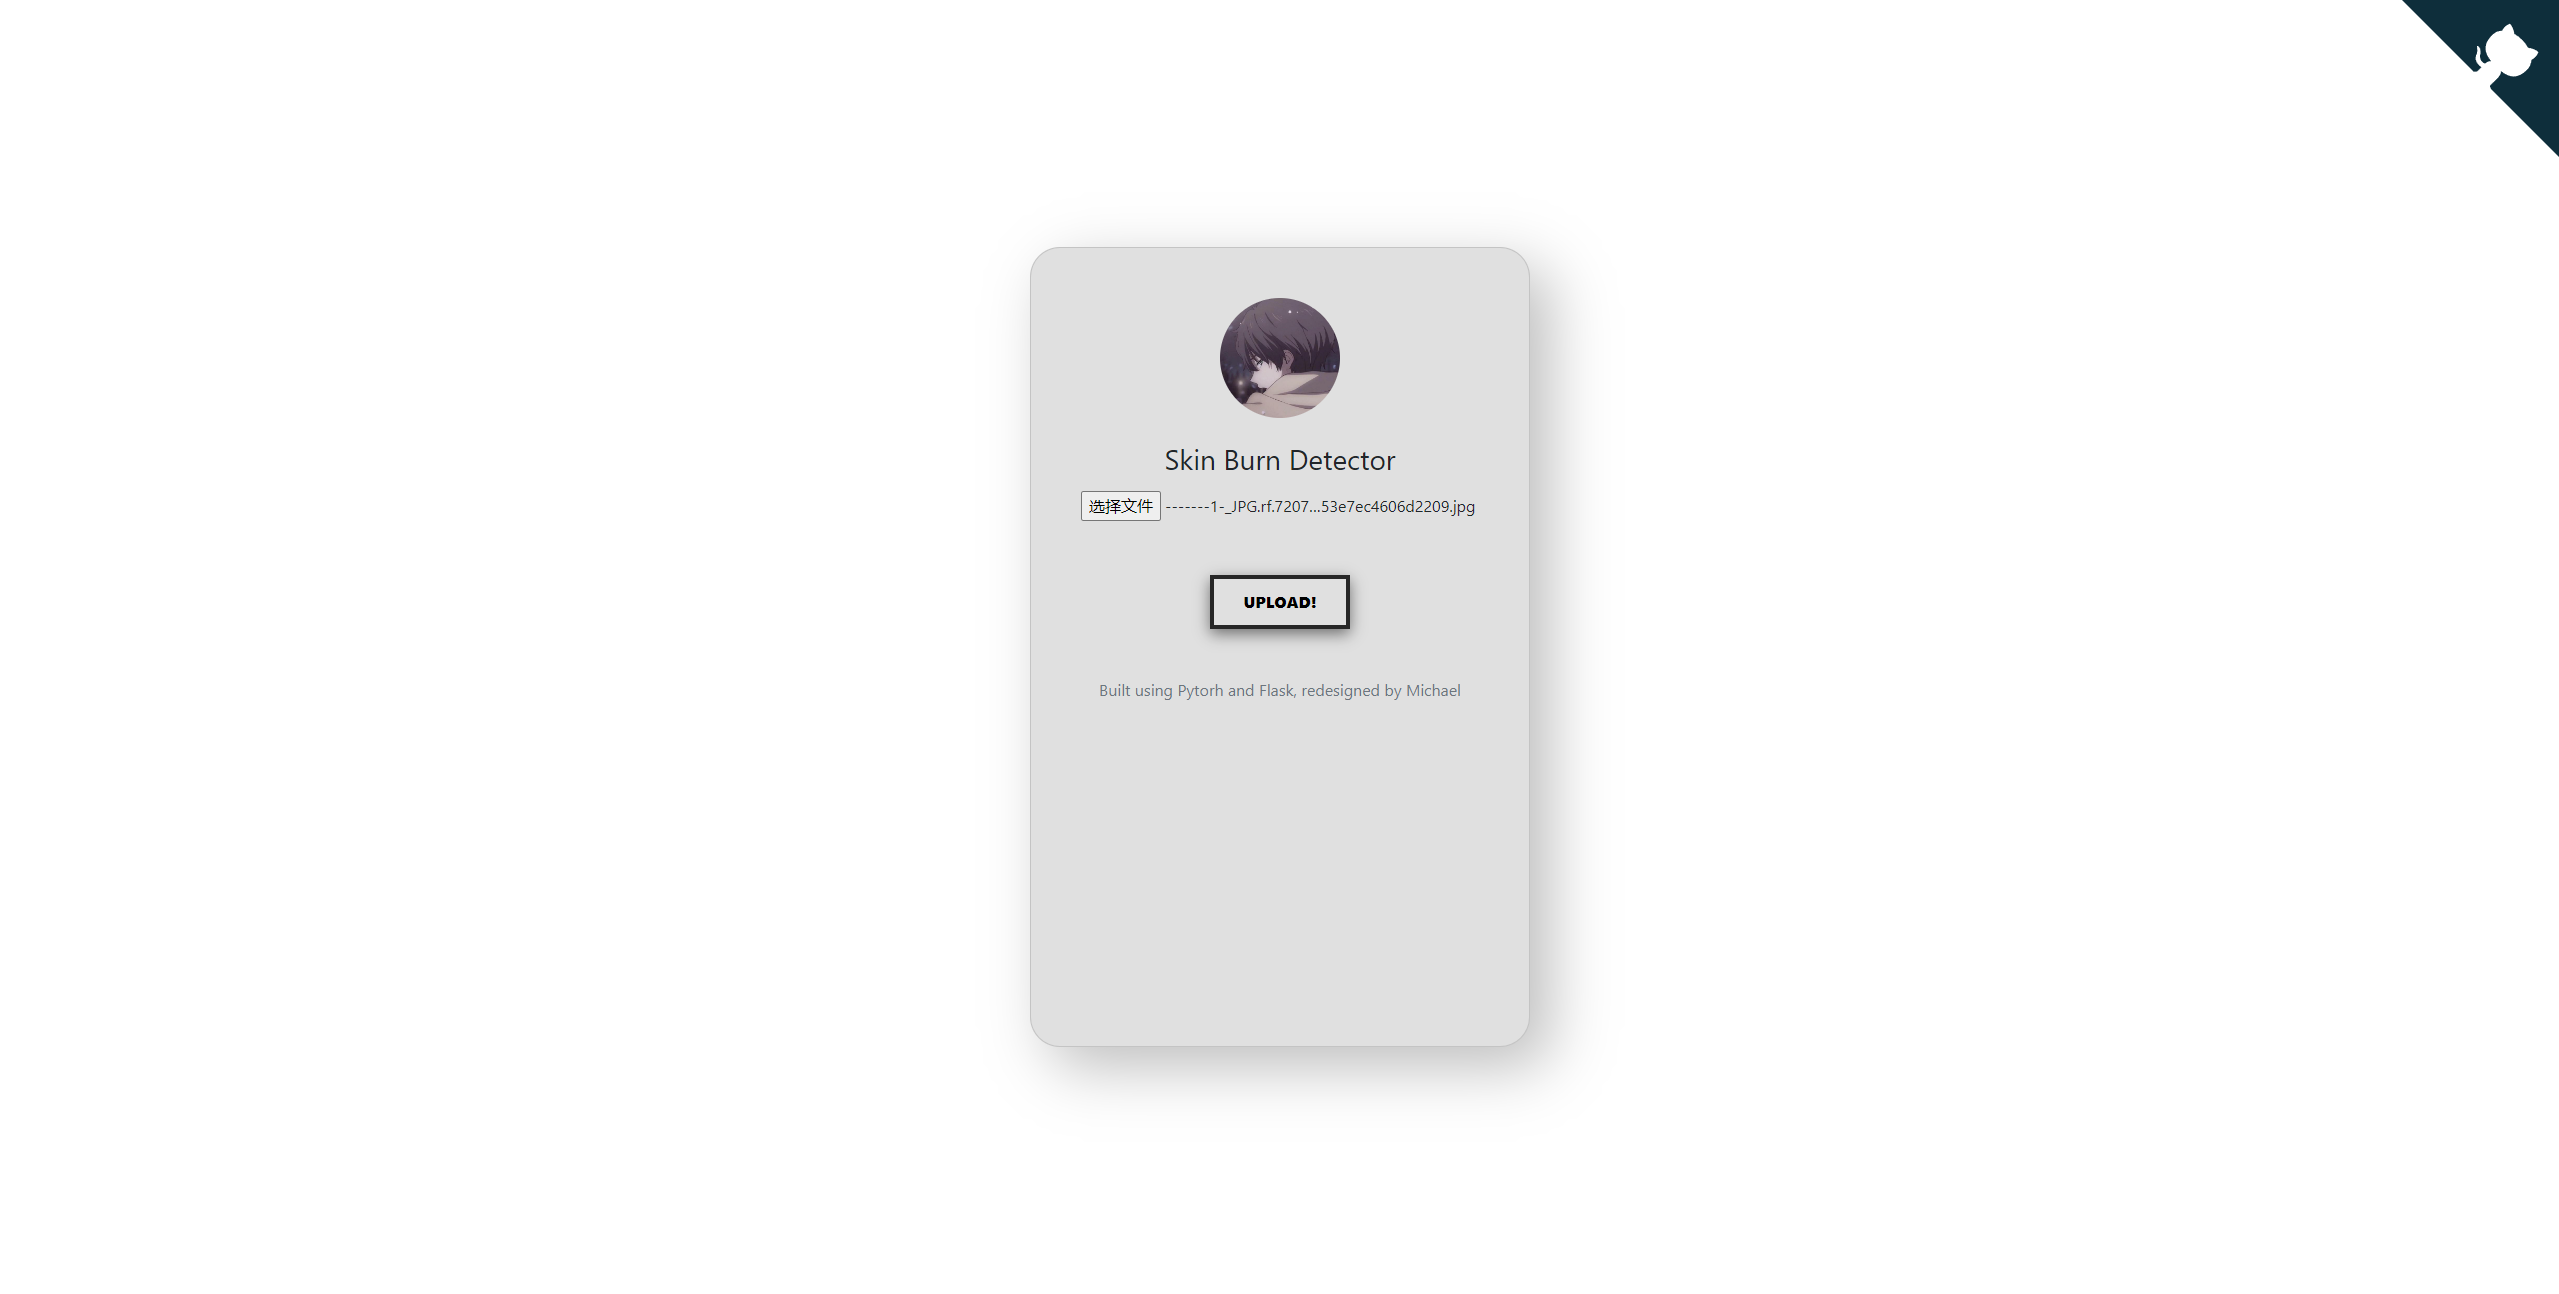
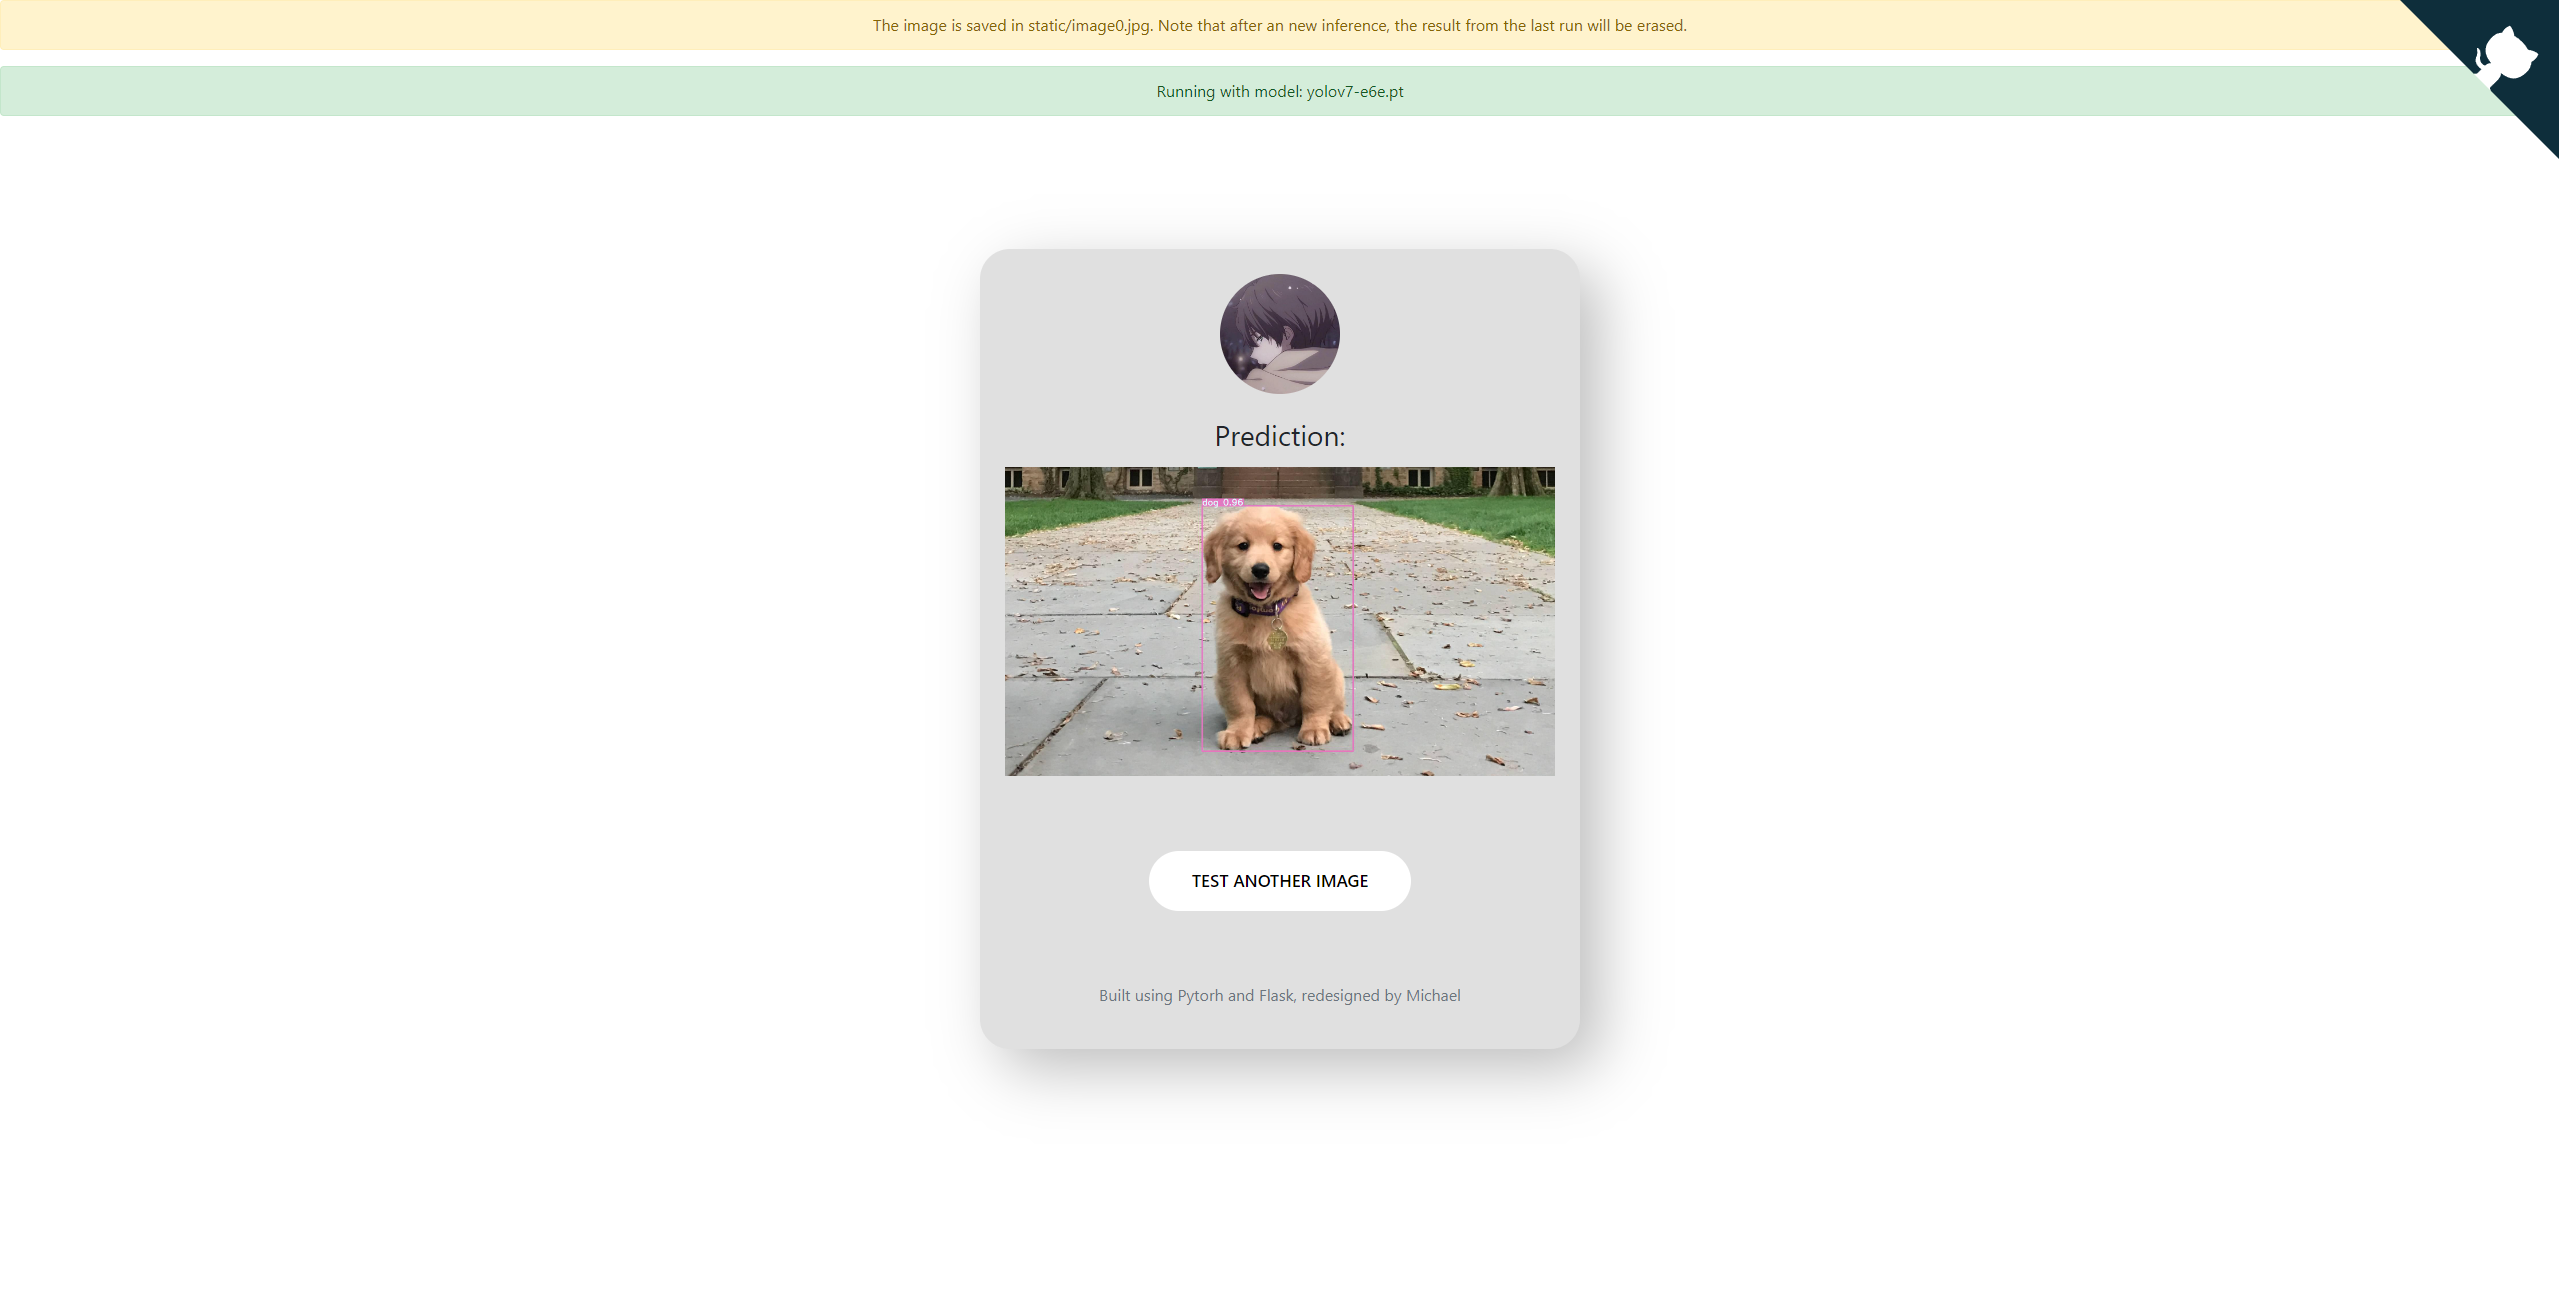
Enhancement &  Bugfix
the image size will automatically scale and will not exceed the size of the card. In addition, a green banner is added on top of the page indicating which model is being inferenced.

diff --git a/templates/result.html b/templates/result.html
@@ -21,21 +21,25 @@
     <title>Image Prediction using PyTorch</title>
   </head>
   <body class="text-center">
-    <form class="form-signin card" method=post enctype=multipart/form-data>
+    <form class="form-signin card_res mb-6" method=post enctype=multipart/form-data>
       <img class="mb-4" src="https://avatars.githubusercontent.com/u/85395001?v=4" width="120" style="border-radius:50%">
         <h1 class="h3 mb-3 font-weight-normal">Prediction:</h1>
-          <img class="mb-4 center_img" src= {{ url_for('static', filename= result_image ) }} alt="User_Image" width="100">
-
-          <button class="btn"> Test Another Image </button>
+          <img class = "img-fluid"src= {{ url_for('static', filename= result_image ) }} alt="User_Image" max-width="100%" height="auto">
+ 
+          <button class="btn mb-4"> Test Another Image </button>
           <p class="mt-5 mb-3 text-muted">Built using Pytorh and Flask, redesigned by Michael</p>
     </form>
+ 
 
     <script src="//code.jquery.com/jquery-3.3.1.slim.min.js" integrity="sha384-q8i/X+965DzO0rT7abK41JStQIAqVgRVzpbzo5smXKp4YfRvH+8abtTE1Pi6jizo" crossorigin="anonymous"></script>
     <script src="//cdnjs.cloudflare.com/ajax/libs/popper.js/1.14.6/umd/popper.min.js" integrity="sha384-wHAiFfRlMFy6i5SRaxvfOCifBUQy1xHdJ/yoi7FRNXMRBu5WHdZYu1hA6ZOblgut" crossorigin="anonymous"></script>
     <script src="//stackpath.bootstrapcdn.com/bootstrap/4.2.1/js/bootstrap.min.js" integrity="sha384-B0UglyR+jN6CkvvICOB2joaf5I4l3gm9GU6Hc1og6Ls7i6U/mkkaduKaBhlAXv9k" crossorigin="anonymous"></script>
     <script src="/static/script.js"></script>
-    
-  <p>The image is saved in static/image0.jpg. Note that after an new inference, the result from the last run will be erased.</p>
+
+  <div class="alert alert-warning" role="alert">
+    The image is saved in static/image0.jpg. Note that after an new inference, the result from the last run will be erased.
+  </div>
+  <div class="alert alert-success" role="alert"> Running with model: {{ model_name }} </div>
   </body>
 
   <!-- Github Ribbon Start-->

diff --git a/static/style.css b/static/style.css
@@ -100,8 +100,28 @@ button {
   box-sizing: border-box;
   width: 100%;
   max-width: 500px;
-  height:800px;
+  height:550px;
   padding: 50px;
+  border-radius: 30px;
+  position: absolute;
+  top:0;
+  bottom: 0;
+  left: 0;
+  right: 0;
+  margin: auto;
+  background: #e0e0e0;
+  box-shadow:  20px 20px 60px #bebebe,
+             -20px -20px 60px #ffffff;
+ }
+
+ .card_res{
+  align-items: center;
+  text-align: center;
+  box-sizing: border-box;
+  width: 100%;
+  max-width: 600px;
+  height:800px;
+  padding: 25px;
   border-radius: 30px;
   position: absolute;
   top:0;
@@ -121,14 +141,16 @@ button {
   text-transform: uppercase;
   text-decoration: none;
   padding: 1em 2.5em;
-  display: inline-block;
   border-radius: 6em;
+  align-items: center!important;
   transition: all .2s;
   border: none;
   font-family: inherit;
   font-weight: 500;
   color: black;
   background-color: white;
+  margin-top: 75px;
+  justify-content: center;
  }
  
  .btn:hover {

diff --git a/templates/index.html b/templates/index.html
@@ -22,7 +22,7 @@
   </head>
   <body class="text-center">
 
-    <form class="form-signin card" method=post enctype=multipart/form-data>
+    <form class="form-signin card mb-6" method=post enctype=multipart/form-data>
         <img class="mb-4" src="https://avatars.githubusercontent.com/u/85395001?v=4" alt="" width="120" style="border-radius:50%">
         <h1 class="h3 mb-3 font-weight-normal">Upload Any Images</h1>
         <input type="file" name="file" class="form-control-file" id="inputfile">

diff --git a/app.py b/app.py
@@ -45,7 +45,7 @@ def predict():
         filename = 'image0.jpg'
 
         #return redirect('static/image0.jpg')
-        return render_template('result.html',result_image = filename)
+        return render_template('result.html',result_image = filename,model_name = model_name)
 
     return render_template('index.html')
    

diff --git a/README.md b/README.md
@@ -22,17 +22,17 @@ https://github.com/Michael-OvO/Burn-Detection-Classification
 
 ## Installation & Usage: 
 
-![](./figures/Flask_webapp_view2.png)
-
 ![](./figures/Flask_webapp_view3.png)
+
+![](./figures/Flask_webapp_view2.png)
 
 To run this, please make sure you follow the following steps:
 
 a trained Yolov7 model (or you can also use the official pretrained yolov7 models), they can be downloaded [here](https://github.com/WongKinYiu/yolov7/releases). 
 
-Once you have downloaded files, proceed to the next step. The feature of this web app is that it does not require a specific model name, as I have written code to directly search for the model file that is inside this directory (so you do not need to modify anything and just run it). **But do note that please just put one model file into your directory a single time, or else the code will not run properly.** 
+Once you have downloaded files, proceed to the next step. The feature of this web app is that it does not require a specific model name, as I have written code to directly search for the model file that is inside this directory (so you do not need to modify anything and just run it). **But do note that please just put one model file into your directory a single time, or else the code will not run properly.**  - the green bar on top of the page will display which model is currently being inferenced on your machine. 
 
-Make sure you have met the following requirements:
+Make sure you have met the following requirements:referenced
 
 \- PyTorch >= 1.6
 
@@ -345,7 +345,7 @@ Then, simply control + click on the address will bring you to the flask app.
 
 The original yolov7 pretrained weights was trained on MS COCO dataset, so it could recognize a dog:
 
-![](./figures/prediction.png)
+![](./figures/flask_webapp_view2.png)
 
 Have fun using this framework!
 
